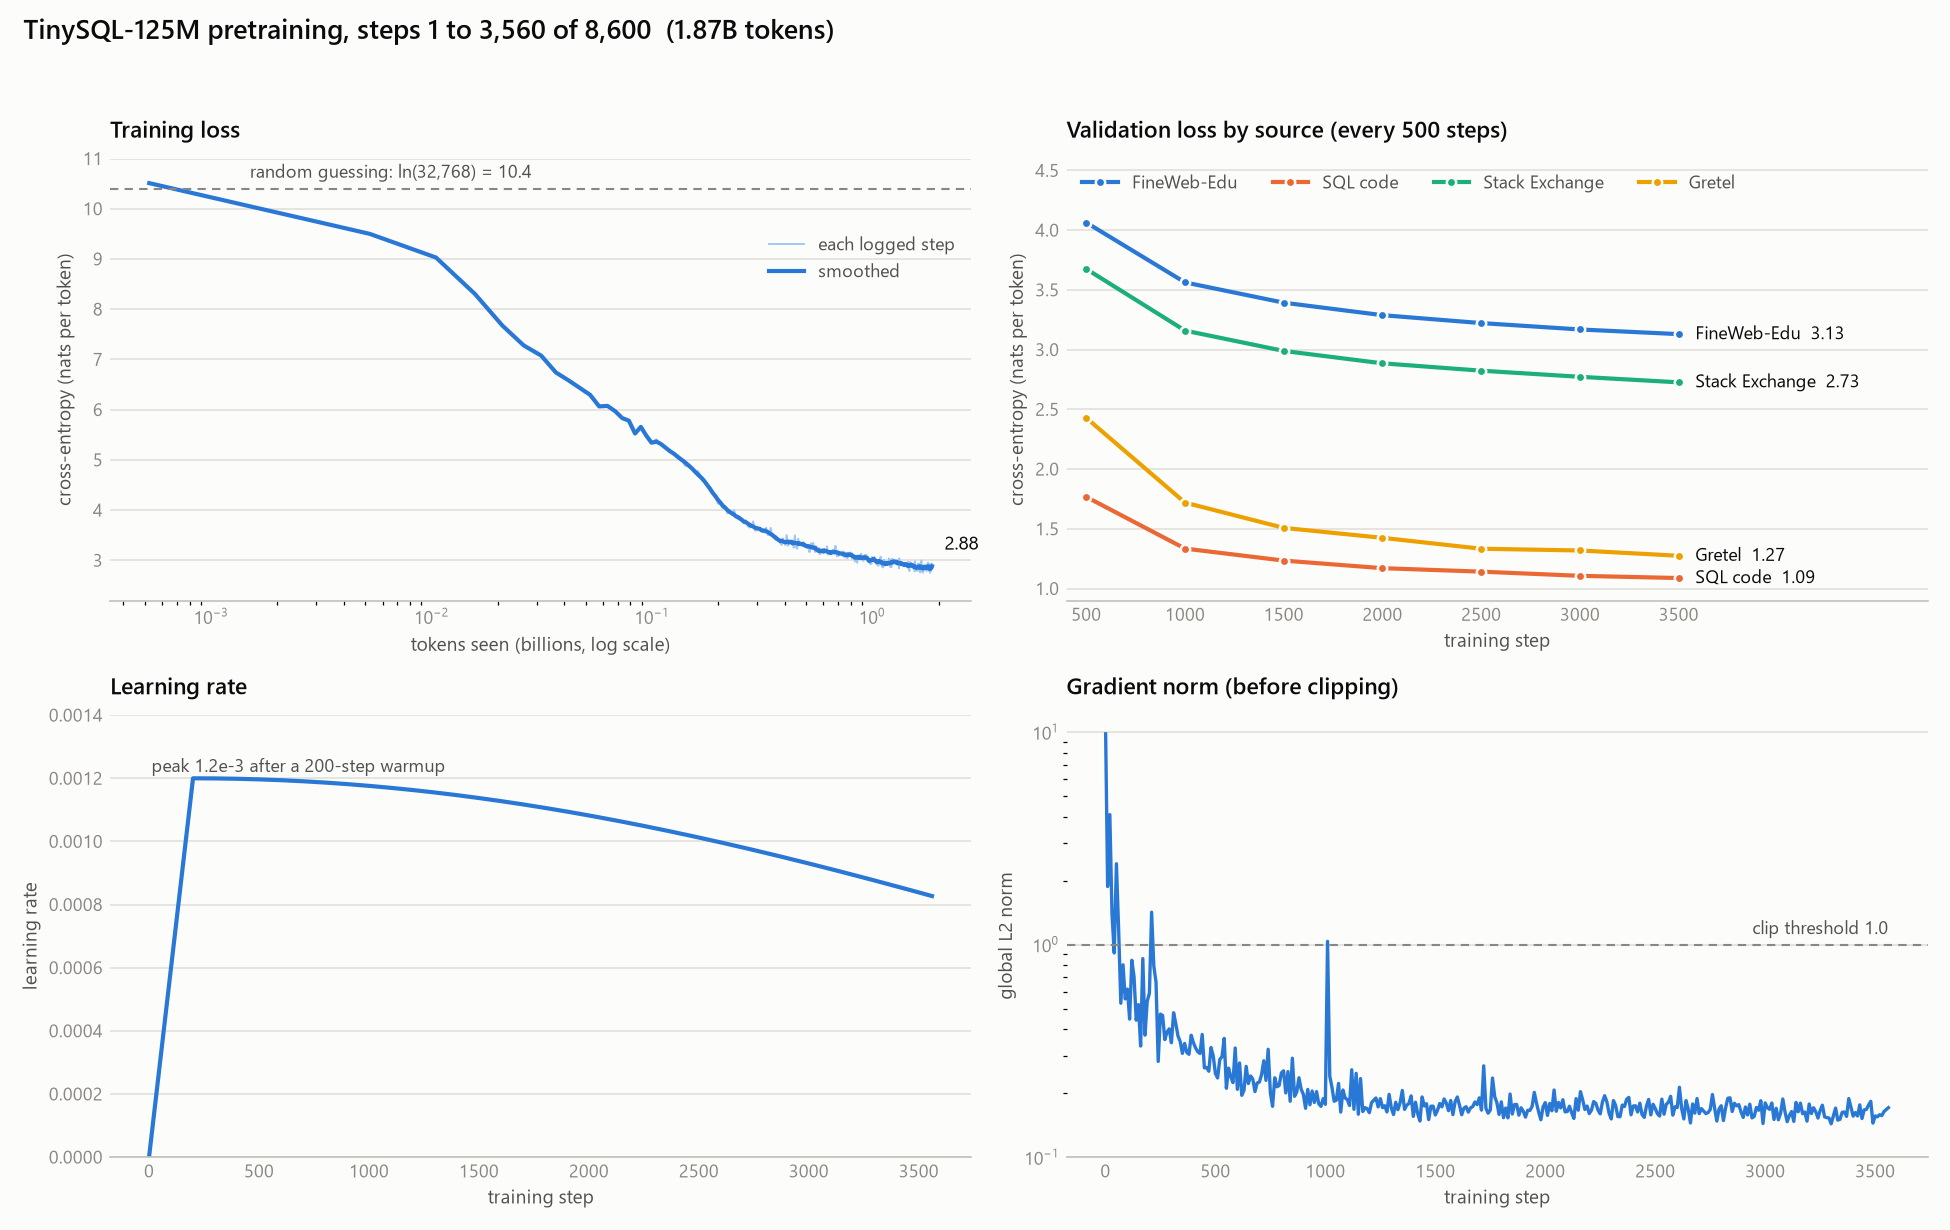
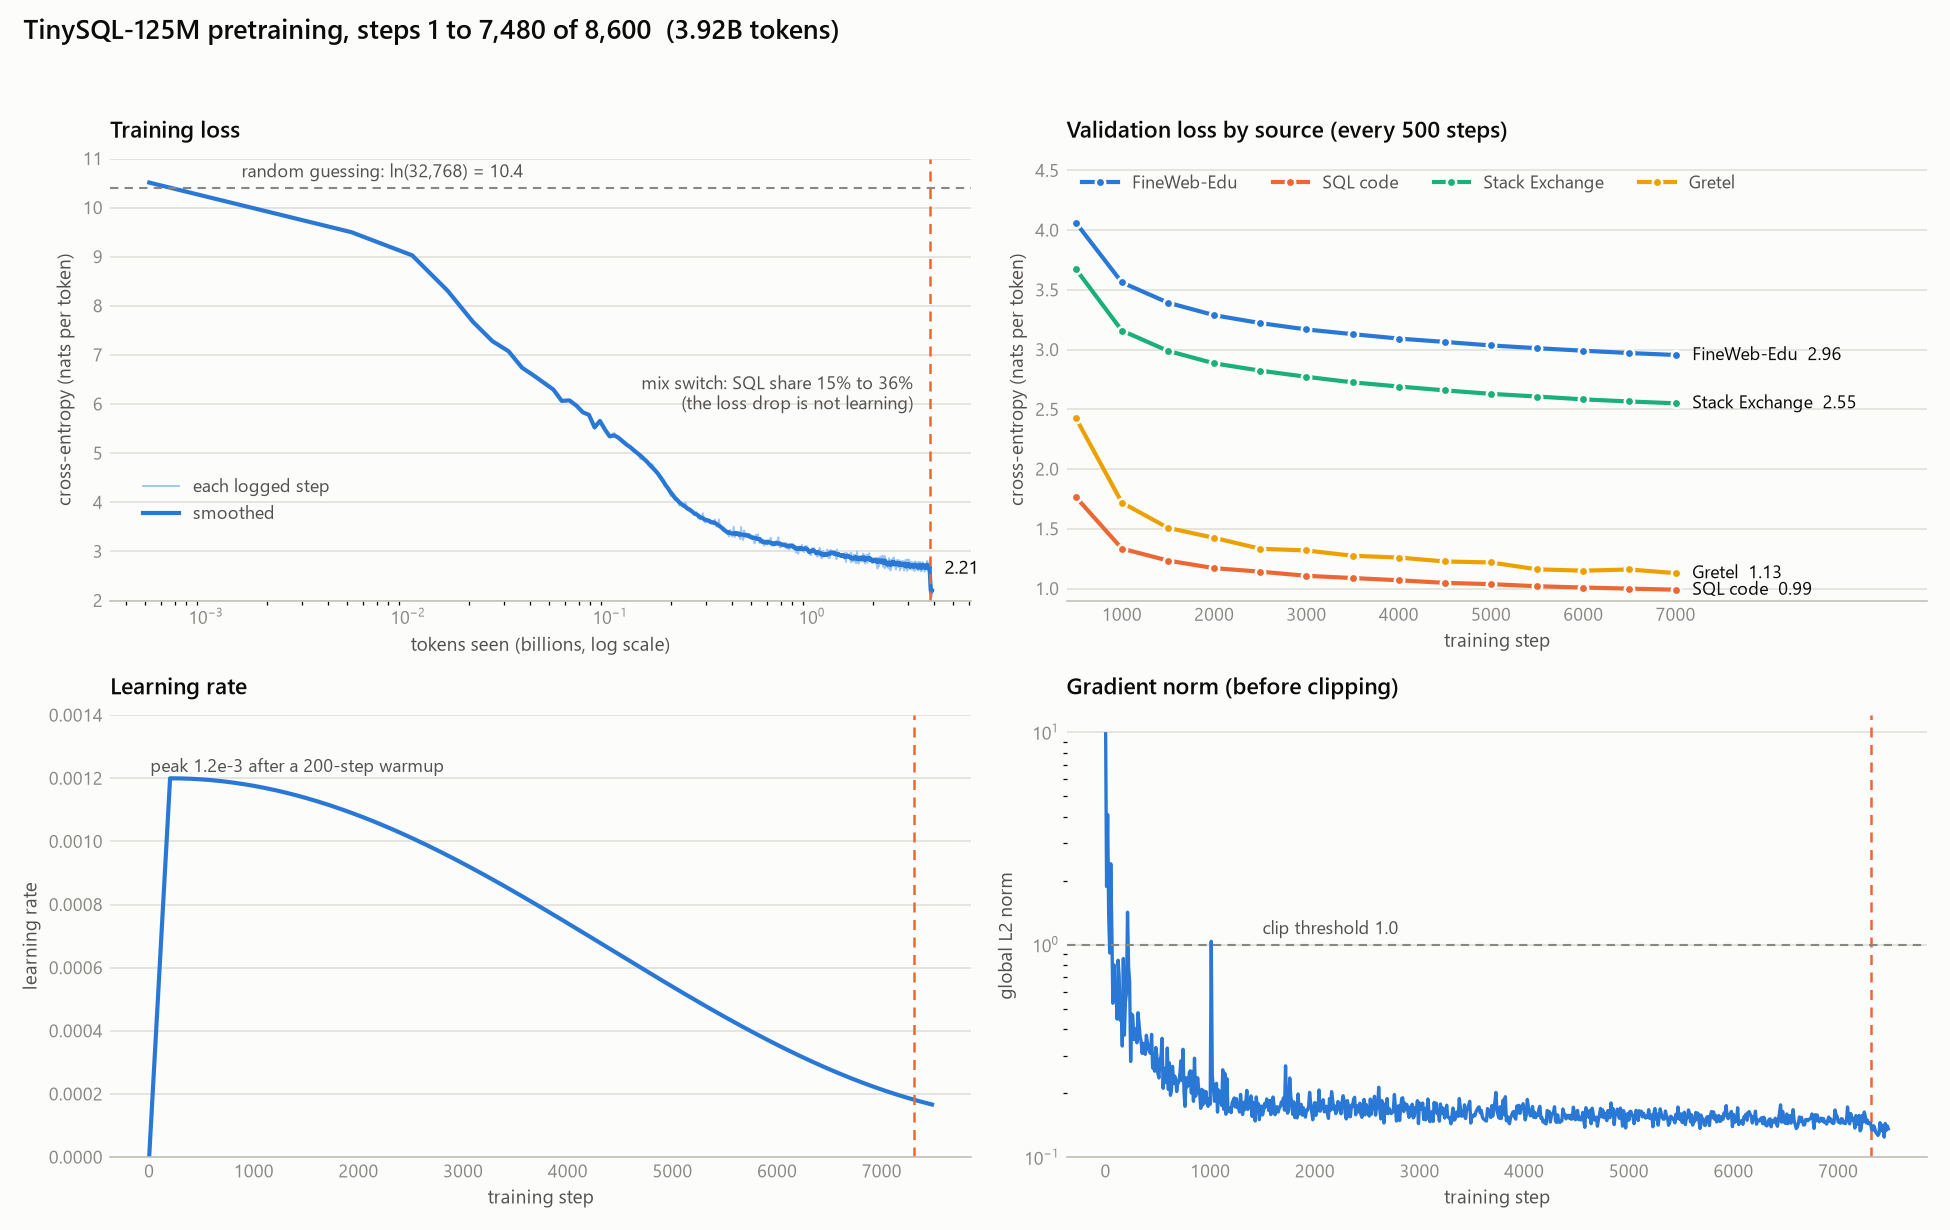
Mark the data-mix switch on the loss-curve figure and tidy its layout

diff --git a/scripts/plot_loss.py b/scripts/plot_loss.py
@@ -21,6 +21,7 @@ BLUE_TINT = "#9ec5f4"
 SOURCES = [("fineweb_edu", "FineWeb-Edu", BLUE), ("stack_sql", "SQL code", ORANGE),
            ("stackexchange", "Stack Exchange", AQUA), ("gretel_sql", "Gretel", YELLOW)]
 LN_VOCAB = math.log(32768)
+MIX_SWITCH_STEP = 7310        # 85% of 8,600: the data mix becomes SQL-heavy here (SQL 15% -> 36%)
 
 
 def load(path):
@@ -78,8 +79,13 @@ def main():
     a.text(0.0015, LN_VOCAB + 0.14, "random guessing: ln(32,768) = 10.4", fontsize=8.5, color=INK2, va="bottom")
     a.annotate(f"{smooth([r['loss'] for r in train], steps)[-1]:.2f}", (toks[-1], smooth([r["loss"] for r in train], steps)[-1]), xytext=(6, 8),
                textcoords="offset points", fontsize=9, color=INK)
-    a.set_ylim(2.2, 11)
-    a.legend(frameon=False, fontsize=8.5, labelcolor=INK2, loc="upper right", bbox_to_anchor=(1.0, 0.86))
+    if last["step"] > MIX_SWITCH_STEP:
+        sw = MIX_SWITCH_STEP * 524288 / 1e9
+        a.axvline(sw, color=ORANGE, linewidth=1.2, linestyle=(0, (4, 3)))
+        a.annotate("mix switch: SQL share 15% to 36%\n(the loss drop is not learning)", (sw, 6.2), xytext=(-8, 0),
+                   textcoords="offset points", fontsize=8.5, color=INK2, ha="right", va="center")
+    a.set_ylim(2.0, 11)
+    a.legend(frameon=False, fontsize=8.5, labelcolor=INK2, loc="lower left", bbox_to_anchor=(0.02, 0.14))
 
     # B: validation loss per source
     style(b, "Validation loss by source (every 500 steps)", "training step", "cross-entropy (nats per token)")
@@ -89,7 +95,7 @@ def main():
         b.plot(vs, ys, color=color, linewidth=2.0, marker="o", markersize=4.5, markeredgecolor=SURFACE, markeredgewidth=1.2, label=label)
         b.annotate(f"{label}  {ys[-1]:.2f}", (vs[-1], ys[-1]), xytext=(8, 0), textcoords="offset points", fontsize=8.5, color=INK, va="center")
     b.set_xlim(vs[0] - 100, vs[-1] + (vs[-1] - vs[0]) * 0.42)
-    b.set_xticks(vs)
+    b.set_xticks([v for v in vs if v % 1000 == 0] or vs)
     b.set_ylim(0.9, 4.6)
     b.legend(frameon=False, fontsize=8.5, labelcolor=INK2, loc="upper left", ncol=4, bbox_to_anchor=(0.0, 1.0))
 
@@ -97,15 +103,19 @@ def main():
     style(c, "Learning rate", "training step", "learning rate")
     c.plot(steps, [r["lr"] for r in train], color=BLUE, linewidth=2.0)
     c.set_ylim(0, 1.4e-3)
+    if last["step"] > MIX_SWITCH_STEP:
+        c.axvline(MIX_SWITCH_STEP, color=ORANGE, linewidth=1.2, linestyle=(0, (4, 3)))
     c.text(steps[0] + 10, 1.22e-3, "peak 1.2e-3 after a 200-step warmup", fontsize=8.5, color=INK2)
 
     # D: gradient norm
     style(d, "Gradient norm (before clipping)", "training step", "global L2 norm")
     d.set_yscale("log")
     d.set_ylim(0.1, 12)
+    if last["step"] > MIX_SWITCH_STEP:
+        d.axvline(MIX_SWITCH_STEP, color=ORANGE, linewidth=1.2, linestyle=(0, (4, 3)))
     d.plot(steps, [r["grad_norm"] for r in train], color=BLUE, linewidth=1.6)
     d.axhline(1.0, color=MUTED, linewidth=1.0, linestyle=(0, (4, 3)))
-    d.text(steps[-1], 1.12, "clip threshold 1.0", fontsize=8.5, color=INK2, ha="right")
+    d.text(1500, 1.12, "clip threshold 1.0", fontsize=8.5, color=INK2, ha="left")
 
     fig.suptitle(f"TinySQL-125M pretraining, steps 1 to {last['step']:,} of 8,600  ({last['tokens'] / 1e9:.2f}B tokens)",
                  x=0.012, y=0.985, ha="left", fontsize=13, color=INK, fontweight="semibold")
